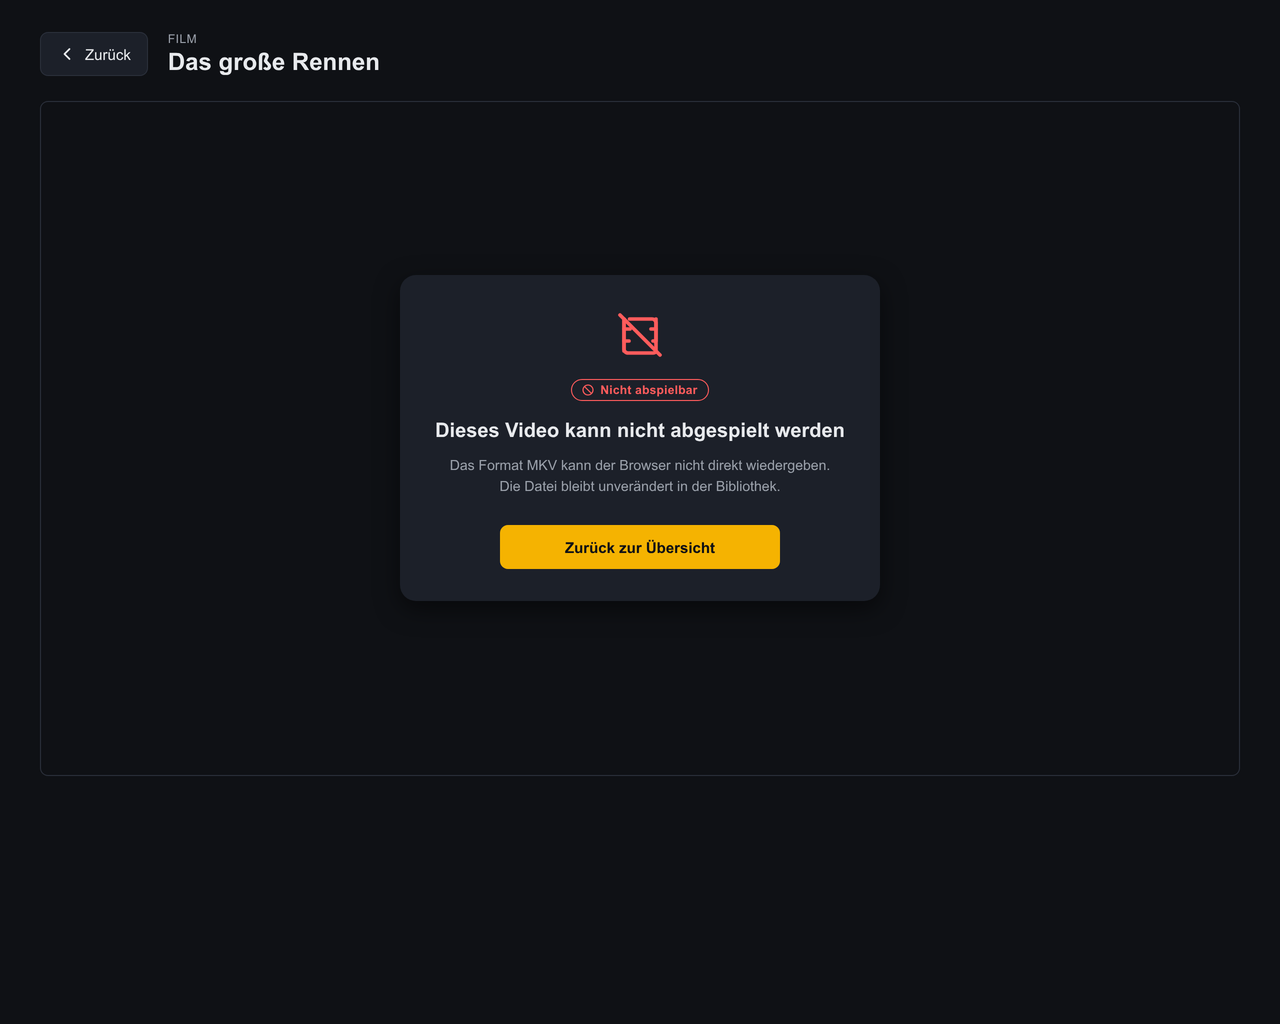
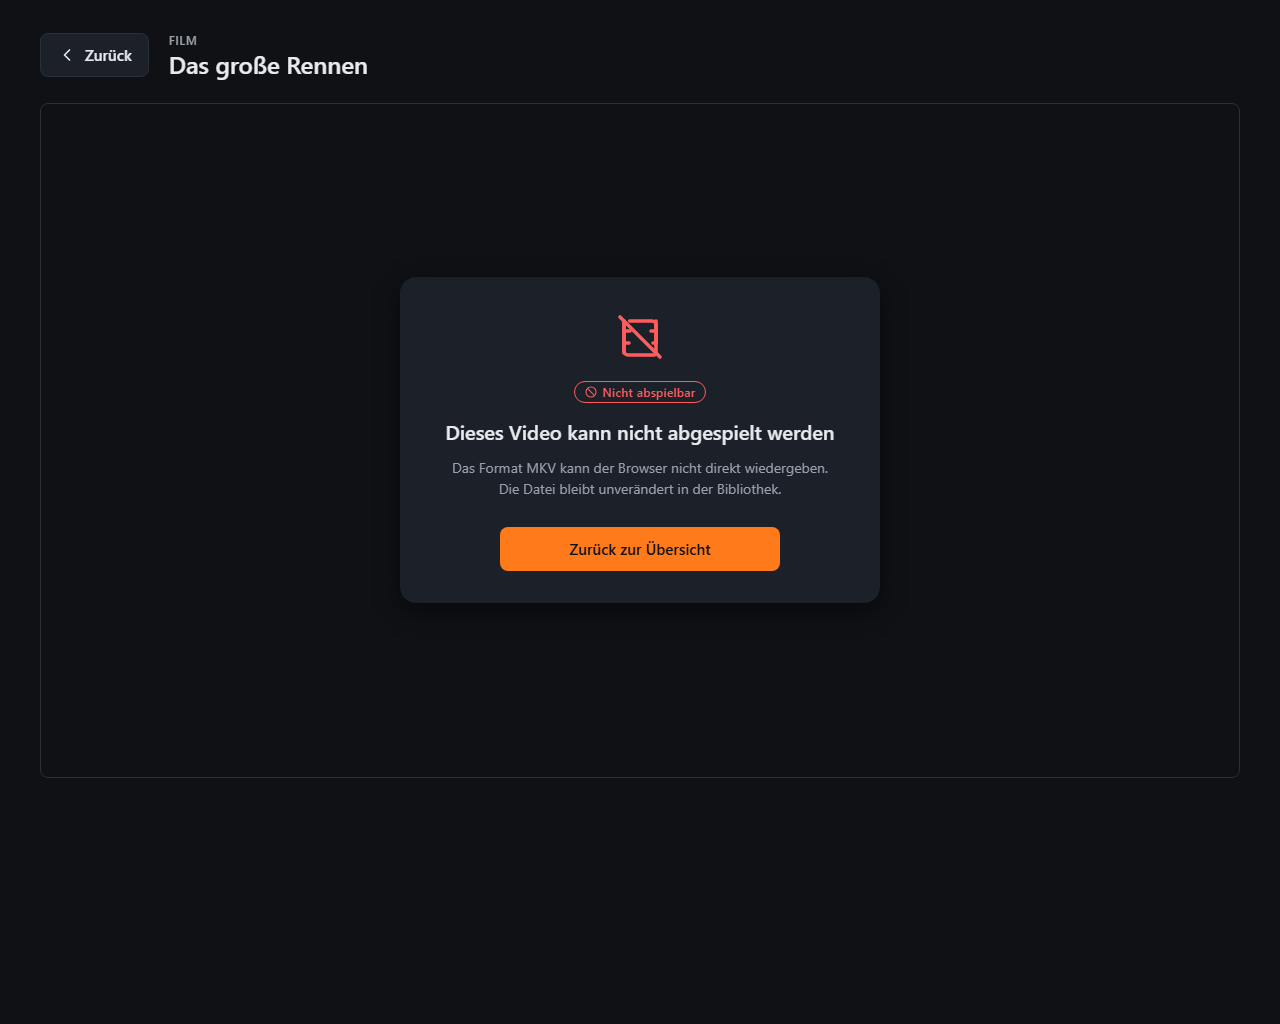
docs(design): re-export video-streaming mockups with primary #ff7a1a
The primary token changed from amber to vivid orange (#5); mockups and colour wording in the spec now match the design contract. Layout, copy and framing are unchanged; verified by pixel counts and side-by-side review.

Changed region(s): [[0.3438, 0.3125, 0.6562, 0.5625], [0.0625, 0.0312, 0.2812, 0.0938]]

diff --git a/docs/design/assets/video-streaming/error-mobile.html b/docs/design/assets/video-streaming/error-mobile.html
@@ -12,7 +12,7 @@
           colors: {
             background: '#0f1115',
             foreground: '#e8eaed',
-            primary: '#f5b301',
+            primary: '#ff7a1a',
             secondary: '#1c2029',
             accent: '#4fb3ff',
             muted: '#9aa0aa',

diff --git a/docs/design/assets/video-streaming/error-desktop.html b/docs/design/assets/video-streaming/error-desktop.html
@@ -9,7 +9,7 @@
     :root {
       --color-background: #0f1115;
       --color-foreground: #e8eaed;
-      --color-primary: #f5b301;
+      --color-primary: #ff7a1a;
       --color-secondary: #1c2029;
       --color-accent: #4fb3ff;
       --color-muted: #9aa0aa;

diff --git a/docs/design/assets/video-streaming/player-desktop.html b/docs/design/assets/video-streaming/player-desktop.html
@@ -9,7 +9,7 @@
     :root {
       --color-background: #0f1115;
       --color-foreground: #e8eaed;
-      --color-primary: #f5b301;
+      --color-primary: #ff7a1a;
       --color-secondary: #1c2029;
       --color-accent: #4fb3ff;
       --color-muted: #9aa0aa;

diff --git a/docs/design/assets/video-streaming/player-mobile.html b/docs/design/assets/video-streaming/player-mobile.html
@@ -8,7 +8,7 @@
     :root {
       --bg: #0f1115;
       --fg: #e8eaed;
-      --primary: #f5b301;
+      --primary: #ff7a1a;
       --secondary: #1c2029;
       --accent: #4fb3ff;
       --muted: #9aa0aa;

diff --git a/docs/specs/spec-video-streaming.md b/docs/specs/spec-video-streaming.md
@@ -246,8 +246,9 @@ Firefox, desktop and a phone-width viewport):
 - [ ] `/player.html?id=999999` → "Titel nicht gefunden"; after logging out, a
       direct `curl /media/<id>` → `401`.
 - [ ] Keyboard: Space, K, ←/→, F, M work with focus on the page; Tab reaches
-      "Zurück", the video controls and "Nächste Folge" with a visible amber focus
-      ring; Space on a focused button activates the button, not playback.
+      "Zurück", the video controls and "Nächste Folge" with a visible primary
+      (orange) focus ring; Space on a focused button activates the button, not
+      playback.
 - [ ] Screens match the committed mockups (tokens only, German copy, targets
       ≥ 44 px).
 - [ ] Performance on the Pi 4: idle RSS < 100 MB; two different 1080p MP4s play
